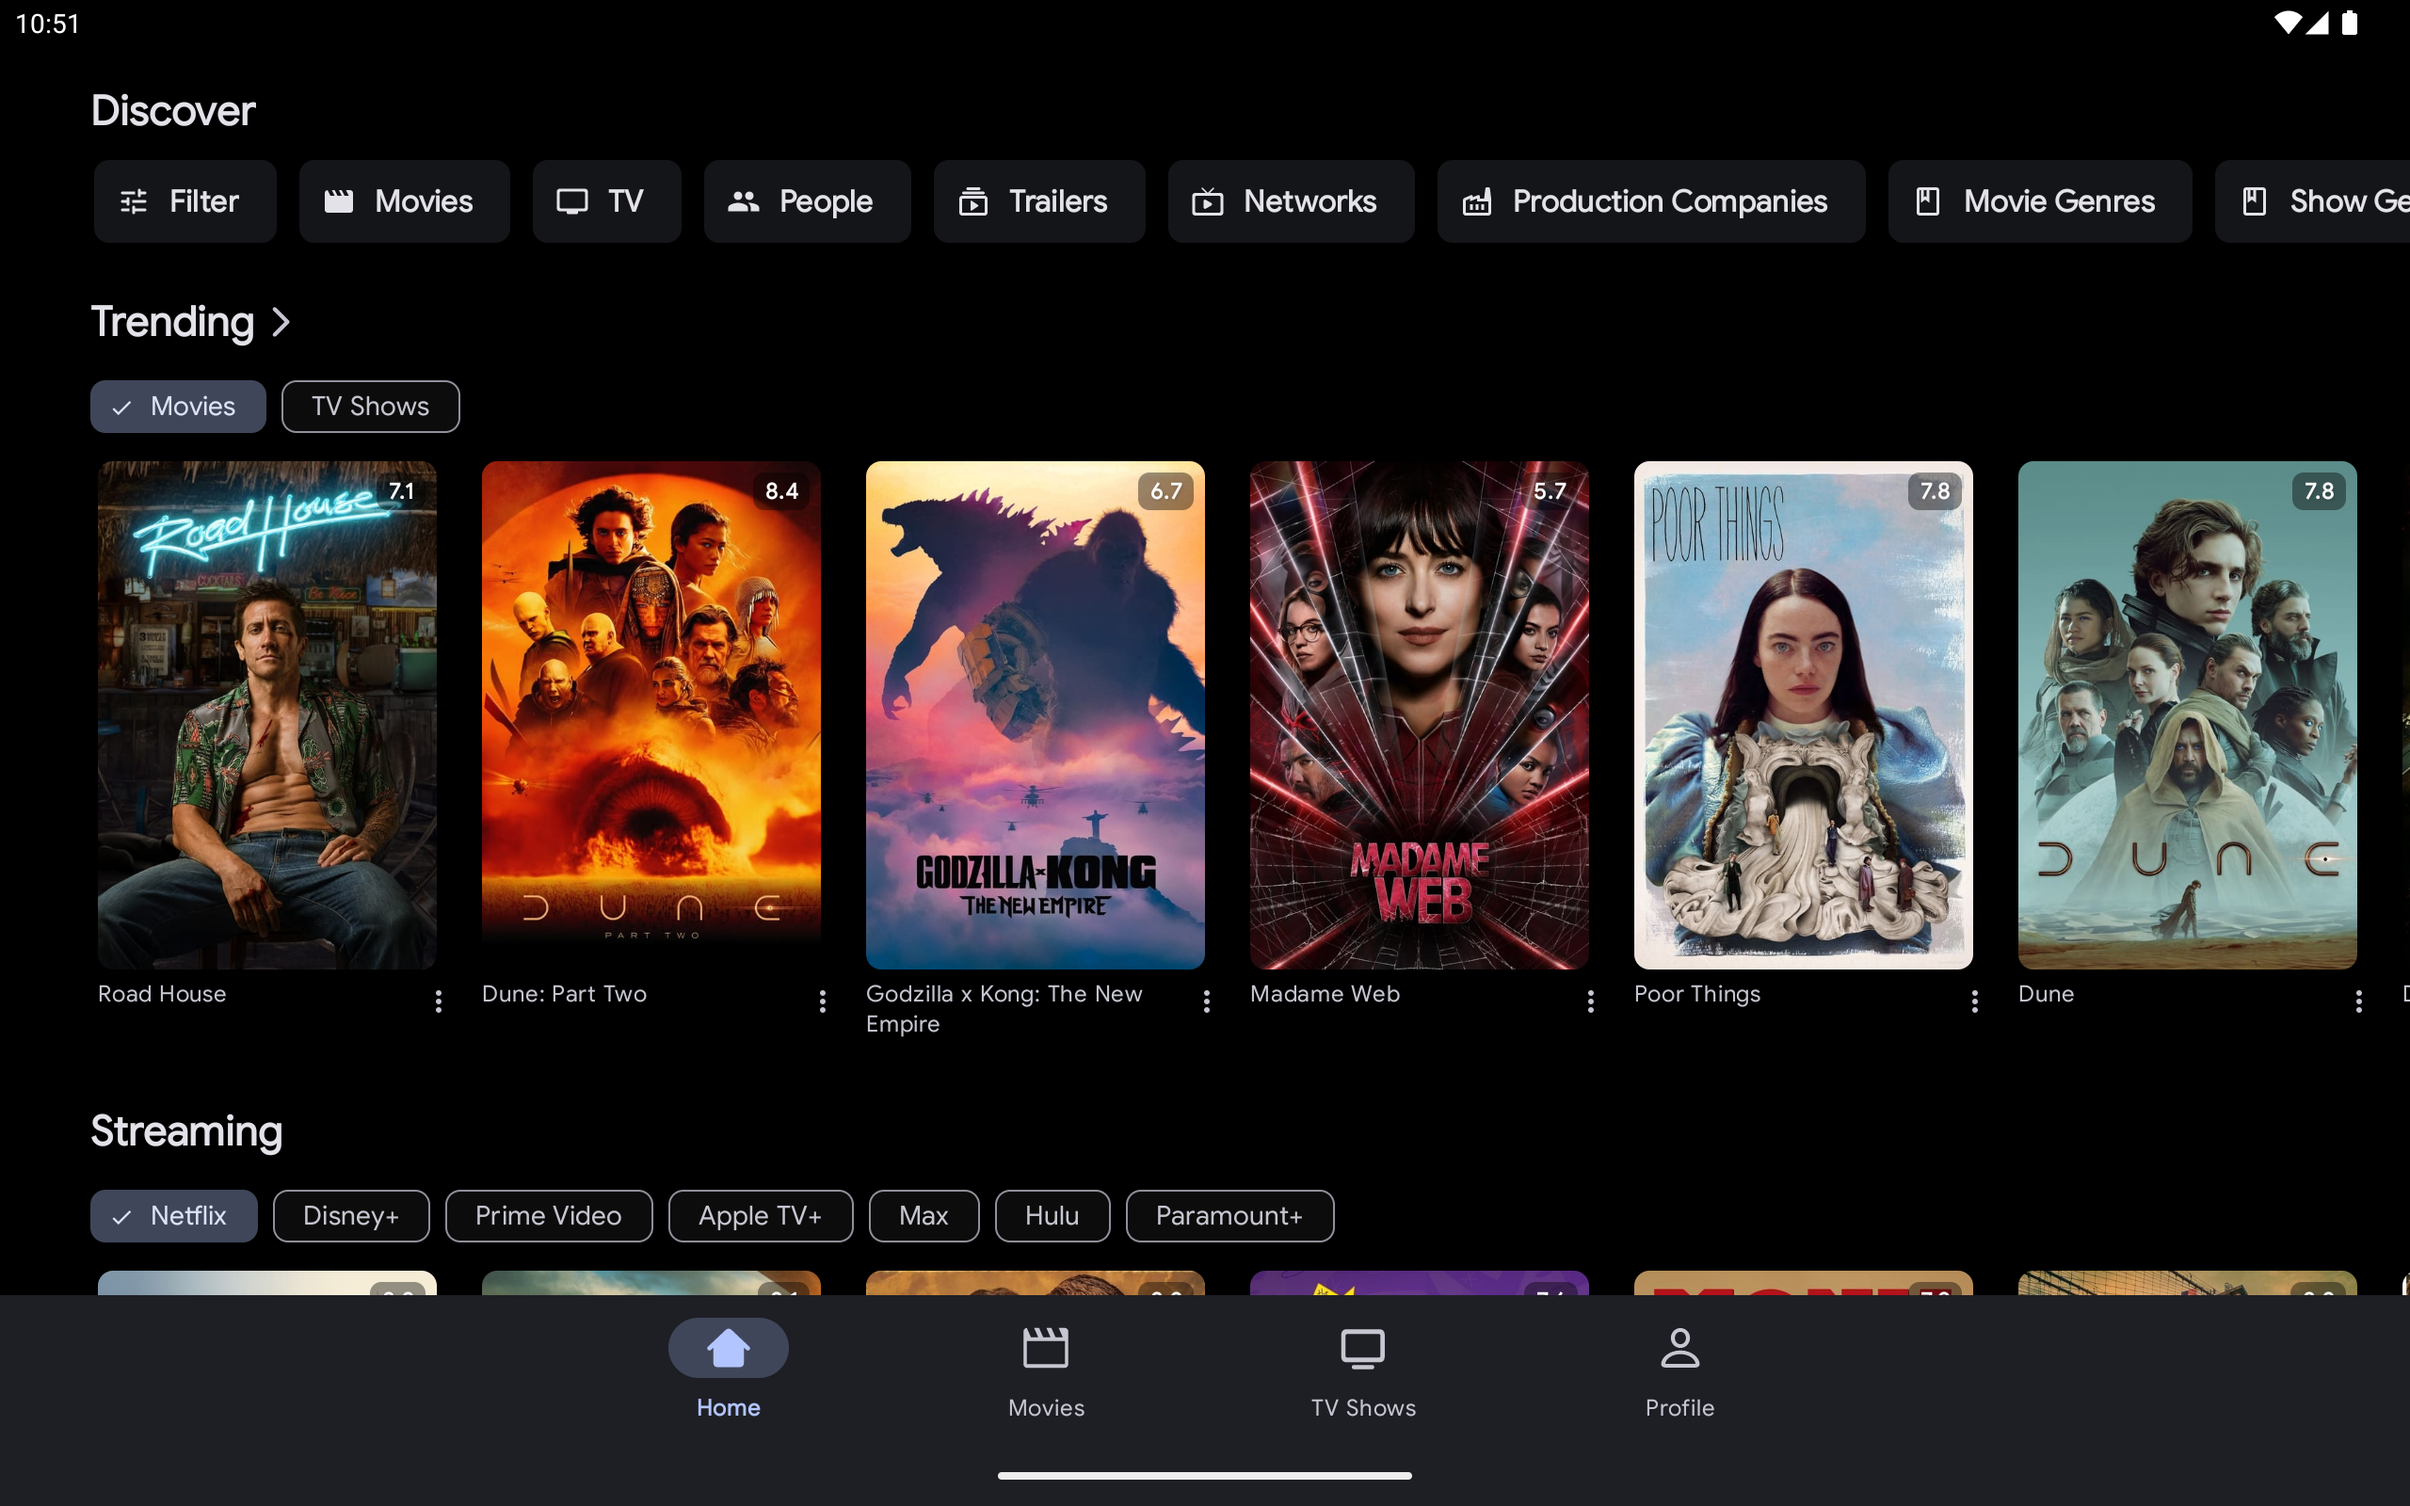
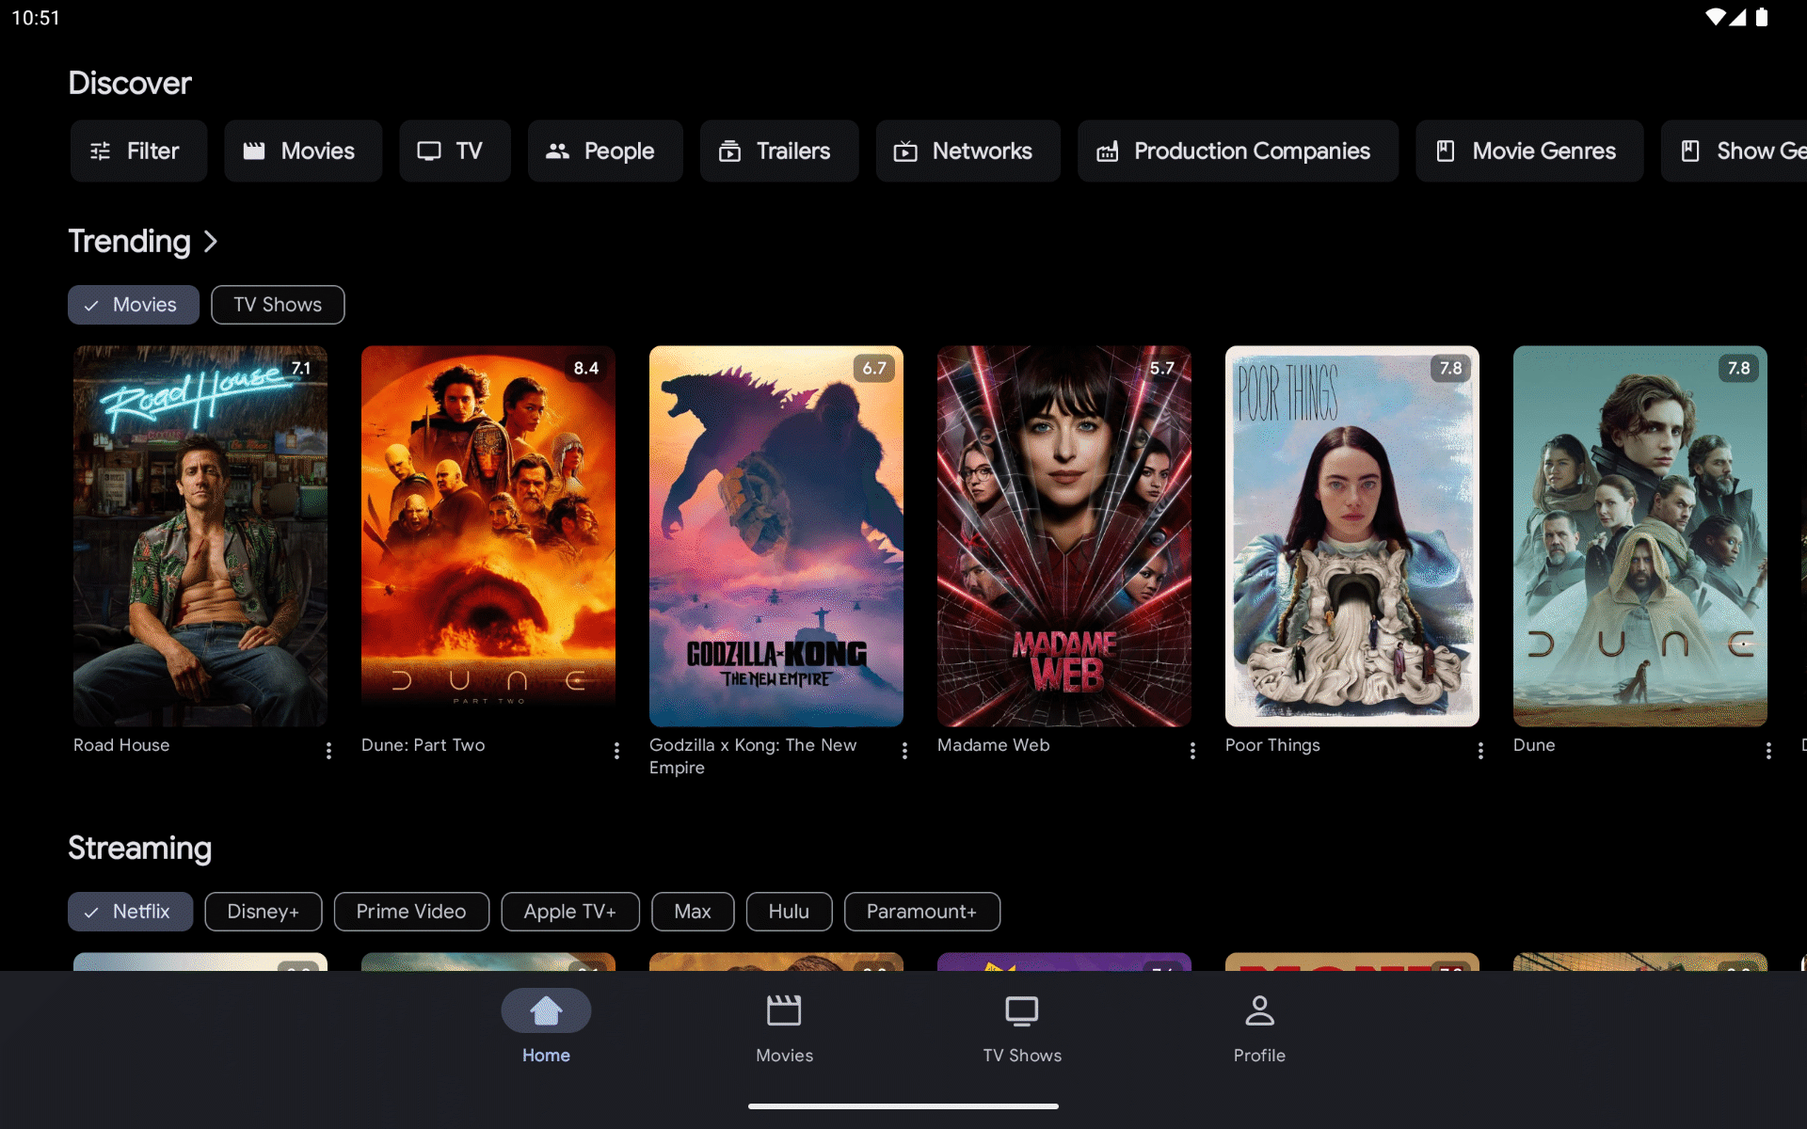
Convert screenshots to PNG

diff --git a/index.html b/index.html
@@ -211,7 +211,7 @@
                     <p>Explore movies and TV shows based on TMDB, where you can access detailed insights like ratings, reviews, cast, and networks. Let Moviebase be your go-to source for understanding what you’re about to watch.</p>
                 </div>
                 <div class="feature_screenshot col-md-6">
-                    <img src="img/screenshot_feature1.jpg" alt="Preview of PDF export"/>
+                    <img src="img/screenshot_feature1.png" alt="Preview of PDF export"/>
                 </div>
             </div>
         </div>
@@ -224,7 +224,7 @@
         <div class="container">
             <div class="row pb-4">
                 <div class="feature_screenshot col-md-6">
-                    <img src="img/screenshot_feature2.jpg" alt="Preview of PDF export"/>
+                    <img src="img/screenshot_feature2.png" alt="Preview of PDF export"/>
                 </div>
                 <div class="col-md-6">
                     <h5 class="label pb-2">Episode tracker</h5>
@@ -251,7 +251,7 @@
                     <p>Organize your favorite movies and TV shows by creating personalized lists and utilizing the Watchlist to easily keep track of your preferred titles. </p>
                 </div>
                 <div class="feature_screenshot col-md-6">
-                    <img src="img/screenshot_feature3.jpg" alt=""/>
+                    <img src="img/screenshot_feature3.png" alt=""/>
                 </div>
             </div>
         </div>
